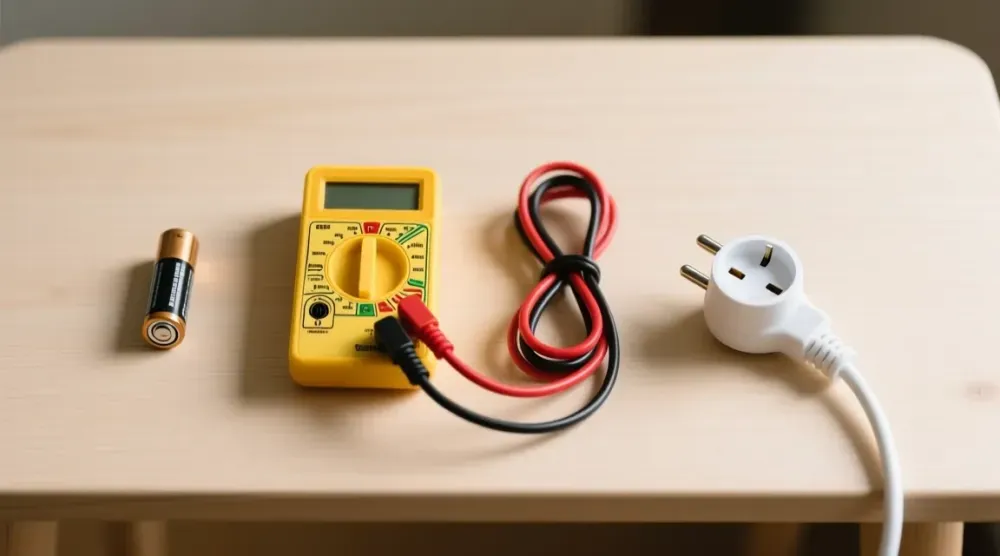
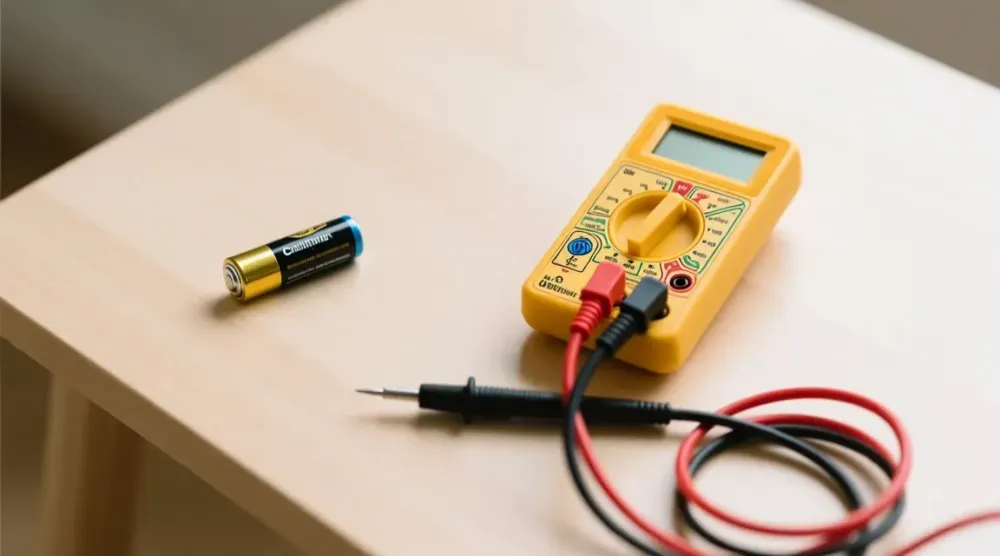
그림 마무리: 1-6 접지·옛날 콘센트 SVG, 3-1 콘센트 뒷면 배선 SVG, 2-2 건전지 그림 교체
- 1-6: 금속 클립 있는 접지 콘센트와 구멍 두 개뿐인 옛날 콘센트 비교 그림(AI는 클립 없는 콘센트를 못 그려 직접 그림)
- 3-1: AI 그림이 스피커 단자 같은 없는 모양이라 빼고, 콘센트 뒷면 단자에 갈색·초록노랑·파랑이 한 가닥씩 들어간 SVG로
- 2-2: 핀과 구멍이 한 몸인 없는 플러그가 나온 그림을 빼고, 멀티테스터와 건전지만 있는 그림으로 다시

diff --git a/content/patch14.js b/content/patch14.js
@@ -18,20 +18,12 @@ module.exports = function (P) {
       screens: [[65, 49, "221 V"]],
       legend: [["1", "on", "<b>두 구멍에 하나씩</b> · 어느 쪽에 검정·빨강을 넣어도 괜찮아요(극성 상관없음)"],
         ["2", "on", "<b>207~233V면 정상</b> · 다 쟀으면 빨강부터 빼요"]] },
-    { img: "g13-3", imgH: "건전지와 릴선도 잴 수 있어요", cap: "이해를 돕기 위한 그림이에요. 릴선은 콘센트에서 뽑은 상태로만 재요.",
-      alt: "나무 탁자 위에 AA 건전지, 선이 꽂힌 노란 멀티테스터, 둥근 핀 두 개가 달린 흰 릴선 플러그가 나란히 놓여 있다",
-      rings: [[12.5, 38, 8, 28], [66, 37, 9, 20]],
-      pins: [[17, 30, "1.6V = 새 것"], [73, 28, "삐- = 이어짐", true]],
-      screens: [[37, 35, "1.6 V"]],
-      legend: [["1", "on", "<b>건전지</b> · 다이얼을 V⎓(직류)에, 빨강은 +, 검정은 -. 새 1.5V 건전지는 1.6V쯤, 1.2V 아래면 바꿀 때예요"],
-        ["2", "on", "<b>릴선 끊김</b> · 콘센트에서 뽑고 소리(도통) 모드로, 플러그 핀과 반대쪽 끝의 같은 줄 구멍에 대요. '삐-' 안 나면 끊긴 거예요"]] }
+    { img: "g13-3", imgH: "건전지도 잴 수 있어요", cap: "이해를 돕기 위한 그림이에요. 릴선·연장선 끊김은 콘센트에서 뽑은 뒤 소리(도통) 모드로 재요.",
+      alt: "나무 탁자 위에 AA 건전지 하나와, 빨간 선과 검은 선이 꽂힌 노란 멀티테스터가 놓여 있다",
+      rings: [[20, 34, 18, 24]],
+      pins: [[29, 26, "1.6V = 새 것"]],
+      screens: [[71, 27, "1.6 V"]],
+      legend: [["1", "on", "<b>건전지</b> · 다이얼을 V⎓(직류)에, 빨강은 +, 검정은 -. 새 1.5V 건전지는 1.6V쯤, 1.2V 아래면 바꿀 때예요"]] }
   ];
-  Object.assign(P["3-1"], {
-    img: "g20", imgH: "선은 색마다 제자리로", cap: CAP,
-    alt: "흰 콘센트 부품 뒷면의 금색 단자 세 개에 갈색, 초록노랑, 파랑 전선이 하나씩 물려 있다",
-    badges: [[34, 38, "1"], [47, 35, "2"], [60, 33, "3"]],
-    legend: [["1", "on", "<b>갈색</b> · 전기가 오는 선. 떼기 전 자리를 사진으로"],
-      ["2", "on", "<b>초록노랑</b> · 안전선(접지). 접지 단자에"],
-      ["3", "on", "<b>파랑</b> · 돌아가는 선. 새 콘센트에도 같은 자리로"]]
-  });
+  // 3-1 단자 그림은 AI가 실제 없는 모양(스피커 단자)으로만 그려서 SVG로 직접 그림 (content/svg/g20.svg, build-content.cjs에서 붙임)
 };

diff --git a/content/picture-briefs.md b/content/picture-briefs.md
@@ -25,6 +25,7 @@
 - 2026-11-24 (9번 시도 → 7장 사용, 10번째에 한도): **완료** G15(2-4, 첫 시도는 멀티테스터처럼 나와 버림 → "주황 상자형·끈·큰 버튼"으로 다시) · G14(2-3, 라인 분리기가 중국식 어댑터로 나와 잘라 내고 양옆 여백 채움) · G32(4-5) · G11(1-9, 옛 분전반 하나만) · G22(3-3) · G23(3-4) · G45(3-12) — `content/patch12.js`. 남은: G29(4-2 T 버튼) · G08(1-6, SVG로) · G13-2 · G13-3 · G18 · G20 · G24 · G17 · G42 · G44.
 - 2026-11-25 (9번 시도 → 5장 사용, 10번째에 한도): **완료** G24(3-5, 첫 시도는 전선형 난방에 콘센트 꽂음 → "넓은 탄소 필름·구리 띠·연결 상자"로 다시) · G17(2-6, 첫 시도는 관이 덕트처럼 굵음 → "손가락 굵기"로 다시, 위 선 끝 잘라 냄) · G42(1-10) · G44(3-11, 왼쪽 미국식 콘센트 잘라 냄) · G18(2-7) — `content/patch13.js`. **실패** G20(선이 나사 단자가 아니라 구멍에 꽂힘). 남은: G29(4-2) · G20(3-1) · G13-2 · G13-3(2-2) · G08(1-6, SVG로).
 - 2026-11-27 (7번 시도 → 4장 사용): **완료** G29(4-2, 레버와 파란 T 버튼을 따로 묘사하니 성공) · G13-2(2-2, 첫 시도는 선 없는 탐침 → 선을 감아 둔 모습으로 다시) · G13-3(2-2) · G20(3-1, "뒷면만·구멍 안 보이게"로 4번째에 성공) — `content/patch14.js`. **AI 그림 끝.** 남은 것: G08(1-6 옛 콘센트)은 SVG로 직접 그리기.
+- 2026-11-27 (사용자 검토): G13-3의 릴선 플러그가 "핀+구멍이 한 몸"인 없는 물건, G20이 스피커 단자 같은 없는 모양 → 둘 다 뺌. G13-3은 플러그를 빼고 "멀티테스터+건전지"만 다시 만들어 교체, G20은 `content/svg/g20.svg`(콘센트 뒷면 배선)로 직접 그림. G08(1-6)도 `content/svg/g08.svg`로 그림. **그림 작업 끝.** 교훈: 판정 때 "실제로 파는 제품 모양인가"도 본다.
 
 ## 면접용 일주일 우선순위 (2026-11-21 정함, 11-28까지)
 하루 약 8번 × 7일 ≈ 56번, 건지는 비율 40% 안팎 → 약 20장 목표. 첫 화면 동그라미·증상 쪽부터.
